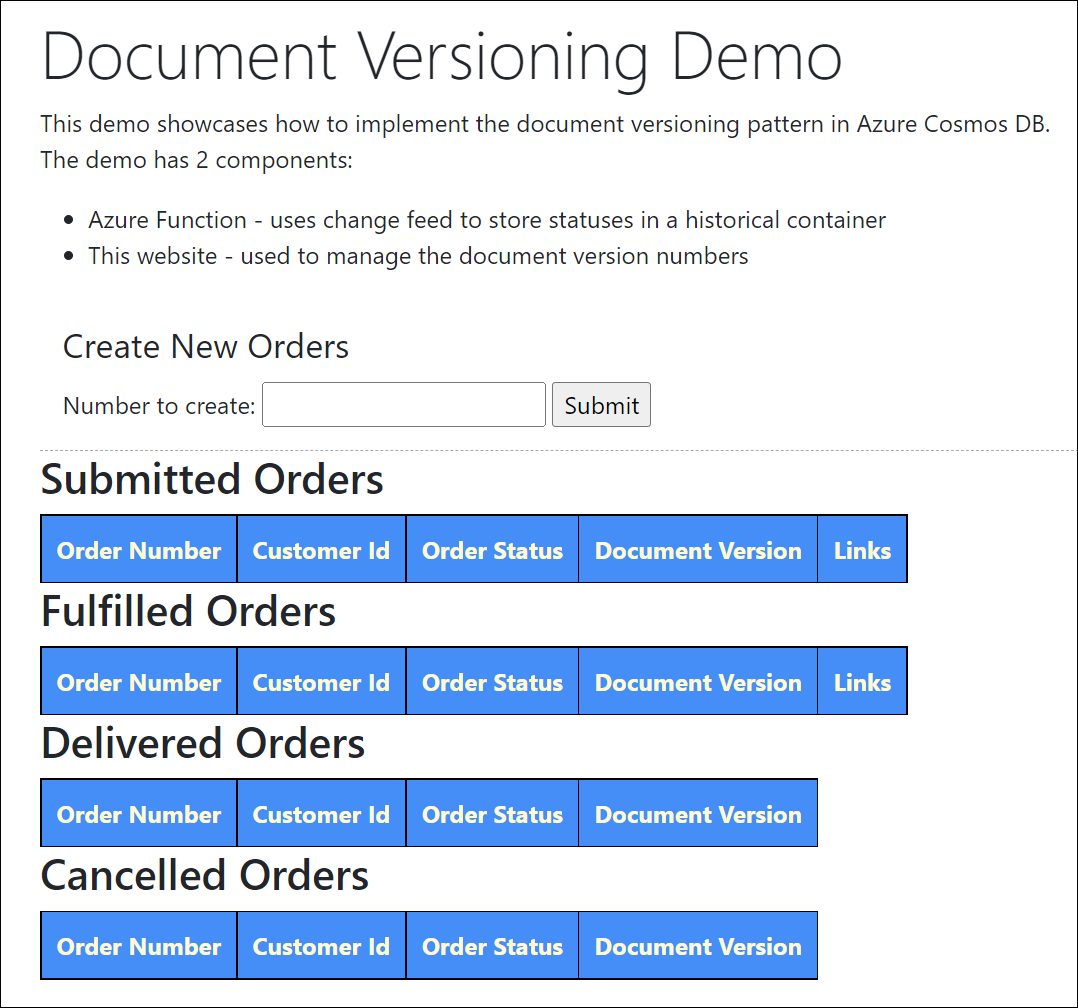
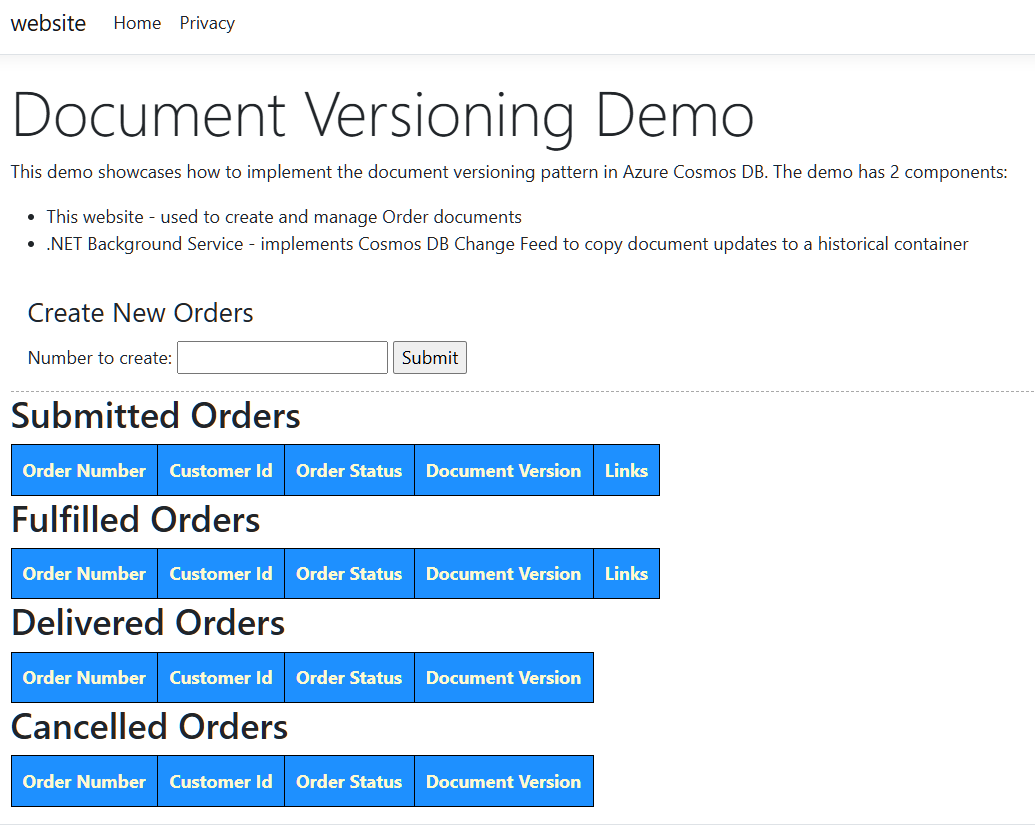
udates for doc versioning

diff --git a/document-versioning/README.md b/document-versioning/README.md
@@ -56,10 +56,10 @@ Now, suppose the customer had to cancel the order. The replacement document coul
 }
 ```
 
-Looking at these documents, though, there is no easy way to tell which of these documents is the current document. By using document versioning, add a property to the document to track the version number. Update the current document in a `CurrentOrderStatus` container and add the change to the `HistoricalOrderStatus` container. In the two projects here, you can see how to implement the document versioning feature with the following components:
+Looking at these documents, though, there is no easy way to tell which of these documents is the current document. By using document versioning, add a property to the document to track the version number. Update the current document in a `CurrentOrderStatus` container and add the change to the `HistoricalOrderStatus` container. In the project here, you can see how to implement the document versioning feature with the following components:
 
 - A website that allows you to create orders and change the order status. The website updates the document version and saves the document to the current status container.
-- A Function App that reads the data for the Azure Cosmos DB change feed and copies the versioned documents to the historical status container
+- An Archiver Service implemented as a .NET Background service that itself implements Cosmos DB Change Feed that sees when the Order Helper updates the order and copies the versioned document to the historical status container.
 
 The demo website includes links to update the orders to the different statuses.
 
@@ -93,7 +93,7 @@ You need to configure the application configuration file to run these demos.
 
 1. From the navigation, under **Settings**, select **Keys**. The values you need for the application settings for the demo are here.
 
-While on the Keys blade, make note of the `URI`, `PRIMARy KEY` and `PRIMARY CONNECTION STRING`. You will need these for the sections below.
+While on the Keys blade, make note of the `URI` and `PRIMARY KEY`. You will need these for the sections below.
 
 ## Prepare the web app configuration
 
@@ -112,7 +112,7 @@ While on the Keys blade, make note of the `URI`, `PRIMARy KEY` and `PRIMARY CONN
 }
 ```
 
-1. Replace the `CosmosURI` and `CosmosKey` with the values from the Keys blade in the Azure Portal.
+1. Replace the `CosmosUri` and `CosmosKey` with the values from the Keys blade in the Azure Portal.
 
 1. Save the file.
 
